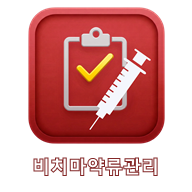
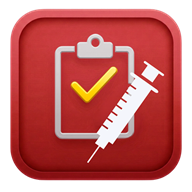
Deploy app update

diff --git a/sw.js b/sw.js
@@ -1,14 +1,19 @@
-const CACHE_NAME = "hospital-inventory-app-v12";
+const CACHE_NAME = "hospital-inventory-app-v16";
 const APP_SHELL = [
   "/Ecart-/",
-  "/Ecart-/manifest.webmanifest?v=20260701a",
-  "/Ecart-/viewer.webmanifest?v=20260701a",
-  "/Ecart-/pharmacy-viewer.webmanifest?v=20260701a",
-  "/Ecart-/narcotic-viewer.webmanifest?v=20260701a",
-  "/Ecart-/icons/app-icon-192.png?v=20260701a",
-  "/Ecart-/icons/app-icon-desktop-512.png?v=20260701a",
-  "/Ecart-/icons/narcotic-icon-192.png?v=20260701a",
-  "/Ecart-/icons/narcotic-icon-desktop-512.png?v=20260701a",
+  "/Ecart-/viewer/",
+  "/Ecart-/pharmacy-viewer/",
+  "/Ecart-/narcotic-viewer/",
+  "/Ecart-/manifest.webmanifest?v=20260707c",
+  "/Ecart-/viewer.webmanifest?v=20260707c",
+  "/Ecart-/pharmacy-viewer.webmanifest?v=20260707c",
+  "/Ecart-/narcotic-viewer.webmanifest?v=20260707c",
+  "/Ecart-/icons/app-icon-192.png?v=20260707c",
+  "/Ecart-/icons/app-icon-desktop-512.png?v=20260707c",
+  "/Ecart-/icons/viewer-icon-192.png?v=20260707c",
+  "/Ecart-/icons/viewer-icon-desktop-512.png?v=20260707c",
+  "/Ecart-/icons/narcotic-icon-192.png?v=20260707c",
+  "/Ecart-/icons/narcotic-icon-desktop-512.png?v=20260707c",
 ];
 
 self.addEventListener("install", (event) => {
@@ -30,6 +35,11 @@ self.addEventListener("fetch", (event) => {
   const url = new URL(request.url);
 
   if (request.method !== "GET" || url.pathname.includes("/api/")) return;
+
+  if (url.pathname.endsWith("/sync-config.json") || url.pathname.includes("/app-state/") || url.pathname.endsWith("/sw.js")) {
+    event.respondWith(fetch(request));
+    return;
+  }
 
   if (request.mode === "navigate") {
     event.respondWith(fetch(request).catch(() => caches.match("/Ecart-/")));

diff --git a/index.html b/index.html
@@ -64,7 +64,7 @@
       })();
     </script>
     <title>약사용 병동 비품관리</title>
-    <script type="module" crossorigin src="/Ecart-/assets/index-8XoZuG7B.js"></script>
+    <script type="module" crossorigin src="/Ecart-/assets/index-DGWXcAqX.js"></script>
     <link rel="stylesheet" crossorigin href="/Ecart-/assets/index-C_oPrqJn.css">
   </head>
   <body>

diff --git a/narcotic-viewer/index.html b/narcotic-viewer/index.html
@@ -64,7 +64,7 @@
       })();
     </script>
     <title>약사용 병동 비품관리</title>
-    <script type="module" crossorigin src="/Ecart-/assets/index-8XoZuG7B.js"></script>
+    <script type="module" crossorigin src="/Ecart-/assets/index-DGWXcAqX.js"></script>
     <link rel="stylesheet" crossorigin href="/Ecart-/assets/index-C_oPrqJn.css">
   </head>
   <body>

diff --git a/pharmacy-viewer/index.html b/pharmacy-viewer/index.html
@@ -64,7 +64,7 @@
       })();
     </script>
     <title>약사용 병동 비품관리</title>
-    <script type="module" crossorigin src="/Ecart-/assets/index-8XoZuG7B.js"></script>
+    <script type="module" crossorigin src="/Ecart-/assets/index-DGWXcAqX.js"></script>
     <link rel="stylesheet" crossorigin href="/Ecart-/assets/index-C_oPrqJn.css">
   </head>
   <body>

diff --git a/viewer/index.html b/viewer/index.html
@@ -64,7 +64,7 @@
       })();
     </script>
     <title>약사용 병동 비품관리</title>
-    <script type="module" crossorigin src="/Ecart-/assets/index-8XoZuG7B.js"></script>
+    <script type="module" crossorigin src="/Ecart-/assets/index-DGWXcAqX.js"></script>
     <link rel="stylesheet" crossorigin href="/Ecart-/assets/index-C_oPrqJn.css">
   </head>
   <body>